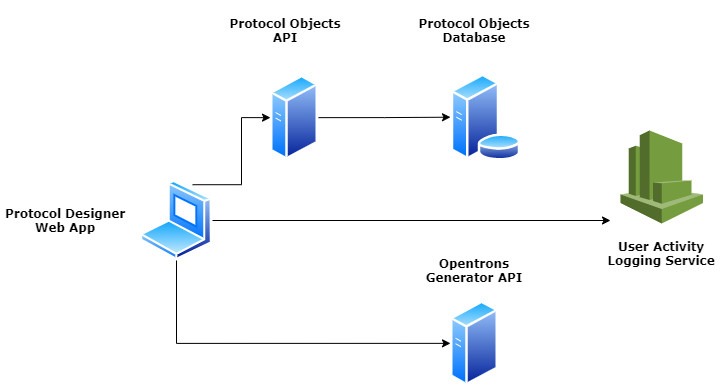
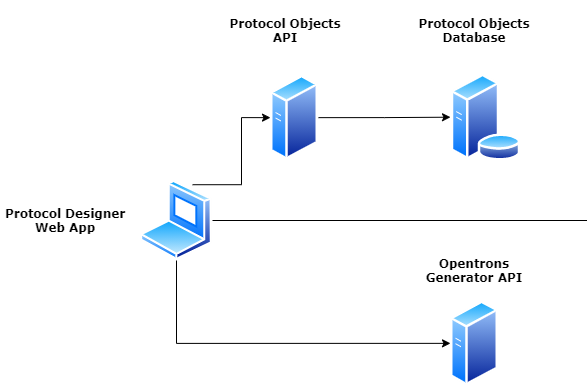
initial commit

diff --git a/README.md b/README.md
@@ -21,12 +21,6 @@ Further, the user can save changes made to a protocol, clone that protocol, or d
 
 The web app depends on the [protocol objects API](https://gitlab.com/enginzyme-public/protocol-objects-api) for persistence and CRUD operations on created protocols and protocol dependencies such as labware, and pipette data. The protocol objects API sits a-top a protocol objects DB (provisioned as an AWS RDS instance).
 The web app also depends on the [Opentrons protocol generator service](https://gitlab.com/enginzyme-public/opentrons-protocol-generator) to either simulate protocol specifications sent from the web app, or to generate the Opentrons robot specific equivalent of the protocol.
-For our purposes, some user activity is logged and tracked on [AWS CloudWatch](https://eu-north-1.console.aws.amazon.com/cloudwatch/home?region=eu-north-1#logsV2:log-groups/log-group/ProtocolDesignerSPA-test/log-events/UserActivity). Such activity include:
-- Creating a protocol
-- Cloning a protocol
-- Deleting a protocol
-- Simulating a protocol
-- Generating the corresponding robot platform specific protocol file.
 
 ## Getting Started
 
@@ -73,9 +67,9 @@ $ docker compose run -d --name opidi-app -p 80:8765 web pipenv run python manage
 ```
 
 ### To Enable Google Authentication
-Follow (https://developers.google.com/identity/sign-in/web/sign-in)[this guide] to obtain your Client ID for Google federated authentication.
+Follow [this guide](https://developers.google.com/identity/sign-in/web/sign-in) to obtain your Client ID for Google federated authentication.
 
-Next, add http://localhost to the allowed Javascript origins and redirect uris lists in the Google API console.
+Next, add `http://localhost` to the allowed Javascript origins and redirect uris lists in the Google API console.
 
 Further, add the following to the head of the `client/public/index.html` file:
 ```
